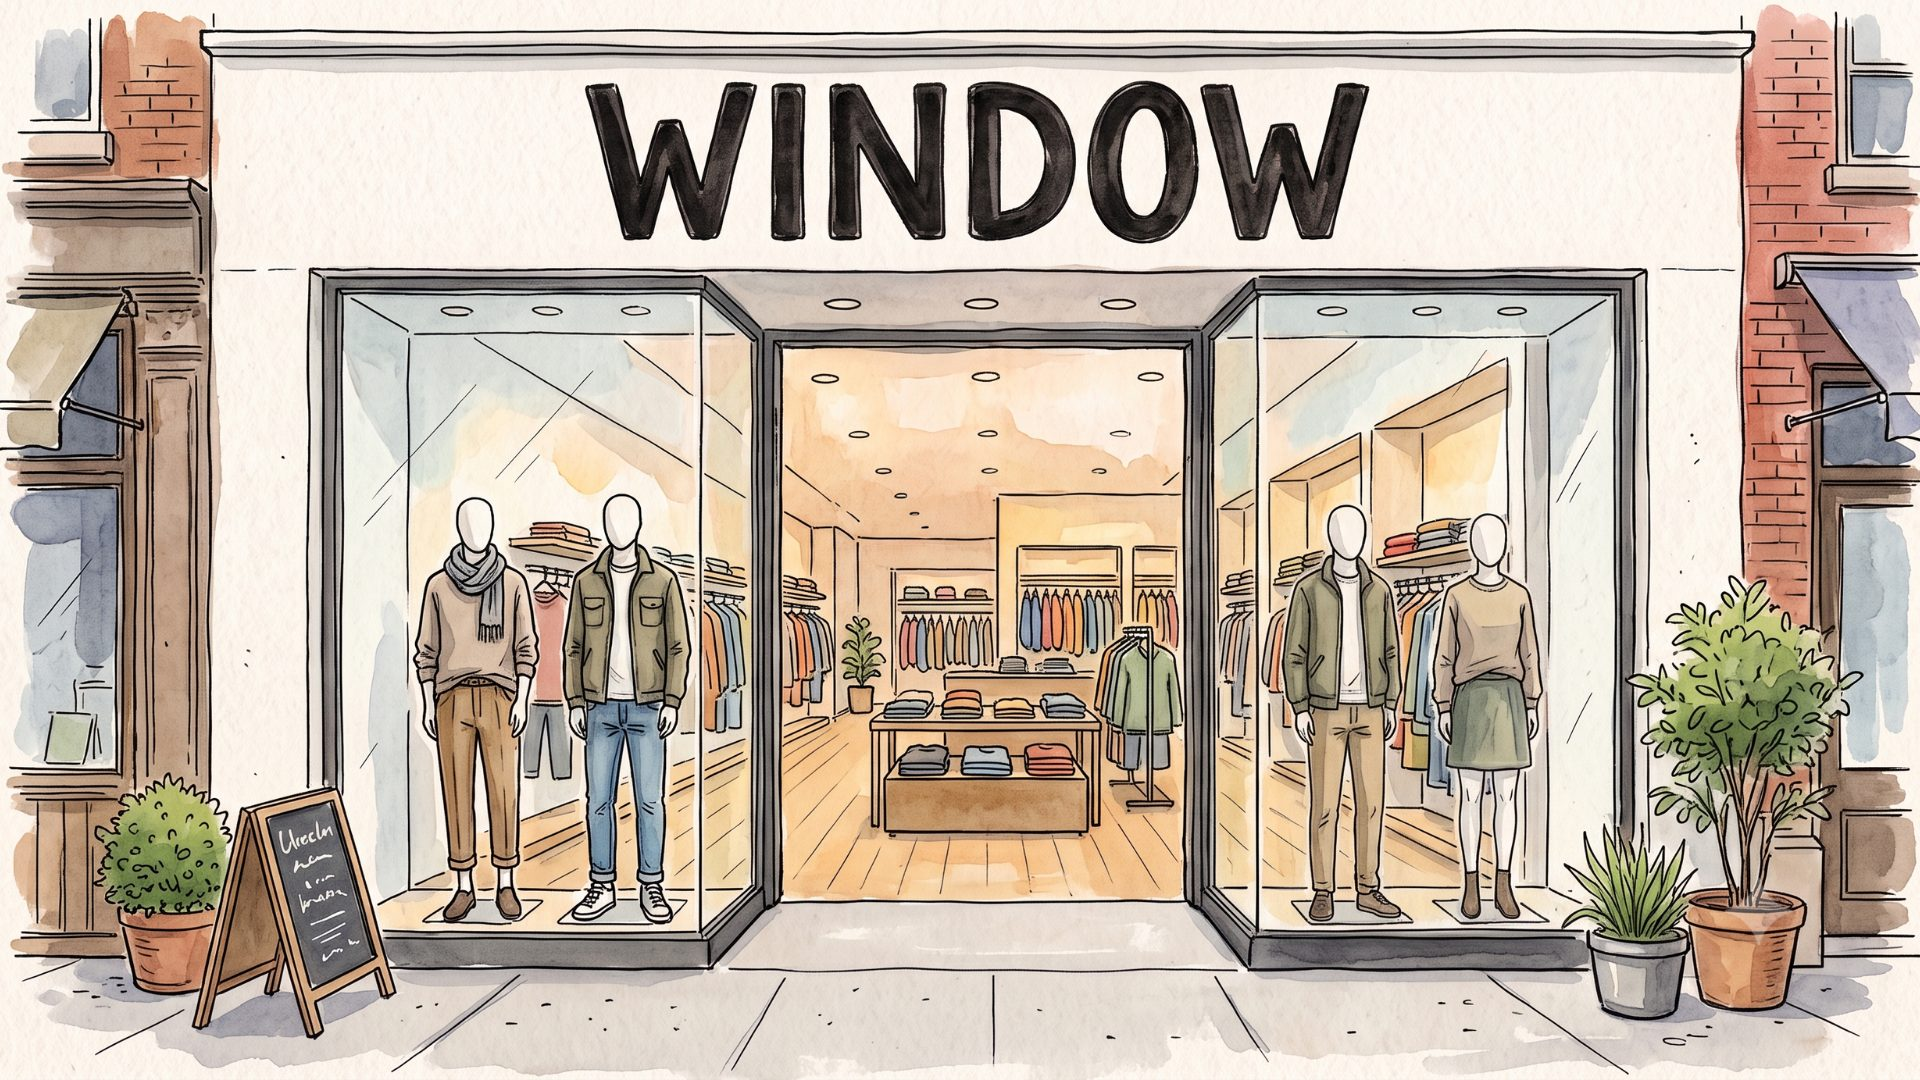
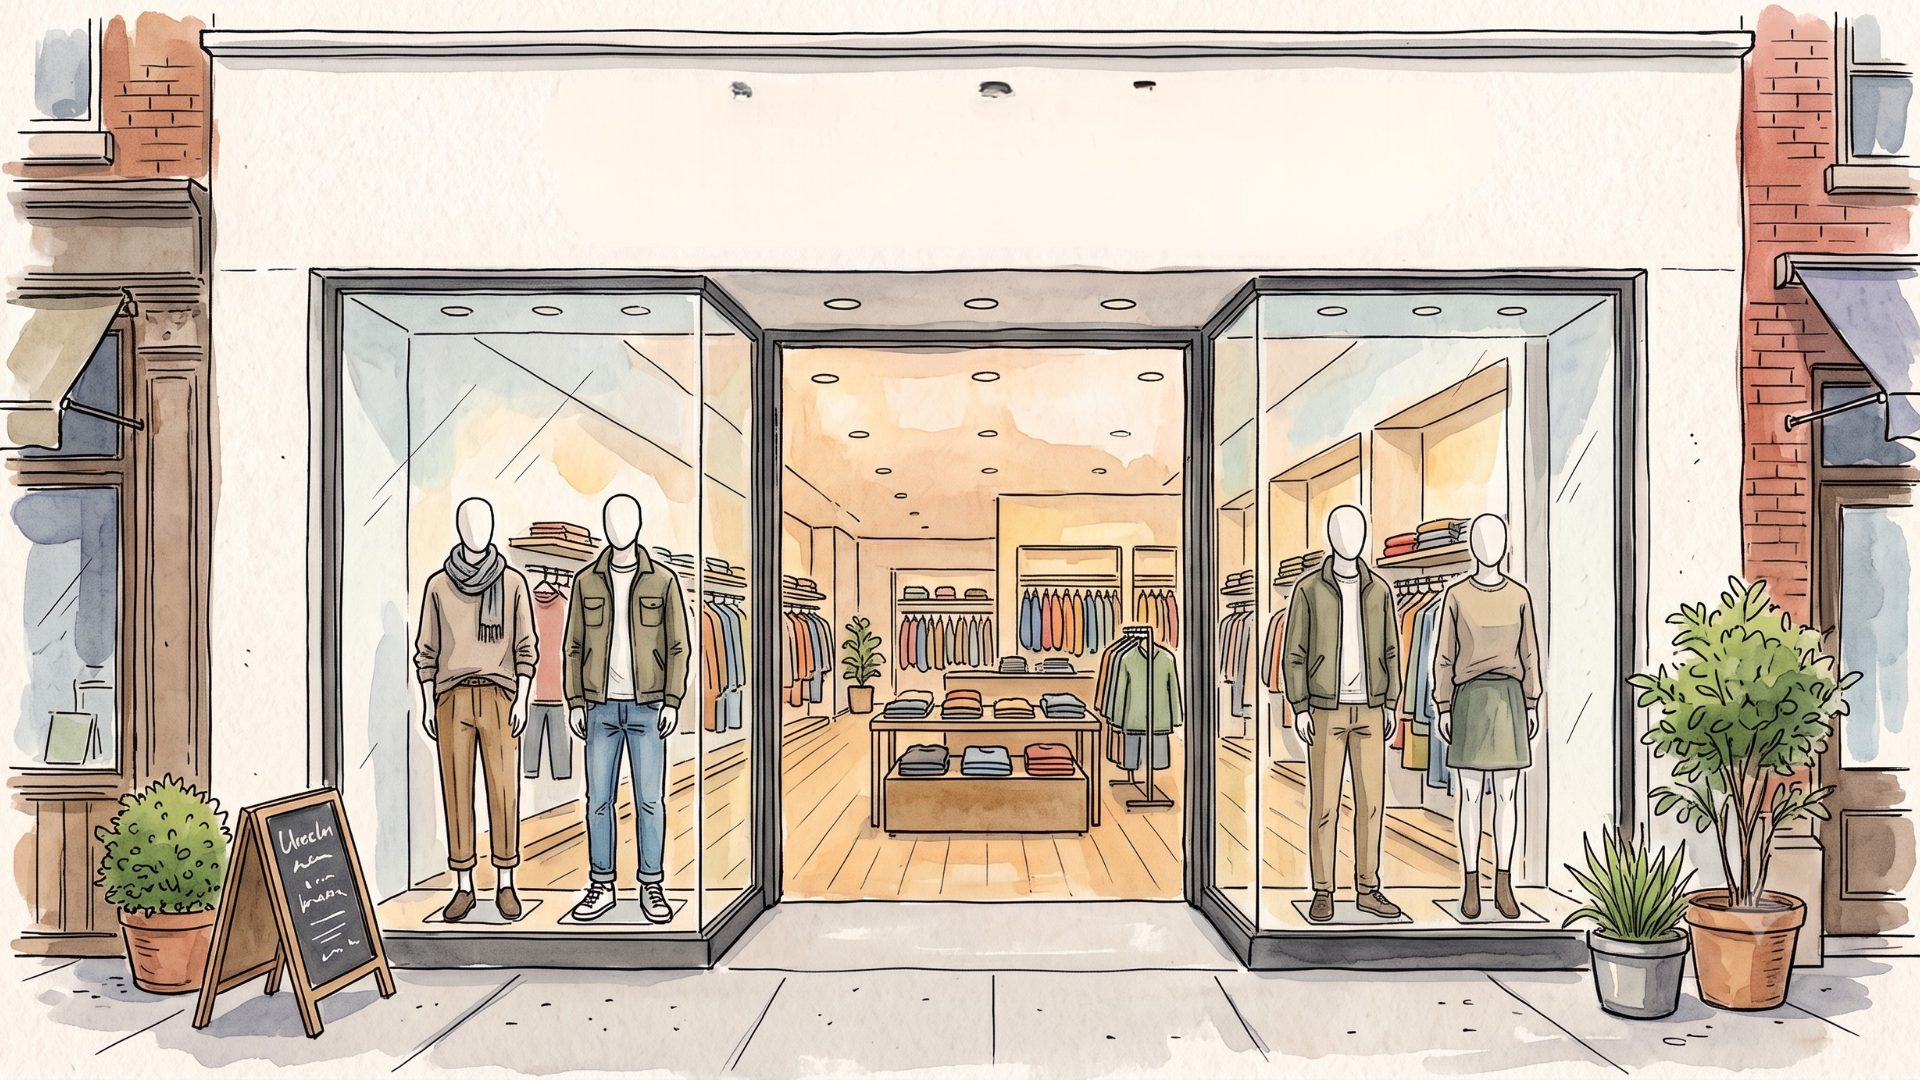
v0.4.2: signboard and camera framing knobs, tuned doors, location pre-ask, https LAN dev
- Storefront intro: WINDOW signboard that moves with the facade; knobs for
  door shift, gap, height, scale, slide and camera focus; doors open on
  every load; sits above the Leaflet map.
- Location: permission requested right after the doors open and on the
  location page in the app; coarse fallback; clear messages when the
  browser blocks GPS/camera on plain http.
- Tinder-style edge light while dragging, LIKE/NOPE stamps, round action
  buttons; version label in Profile; dev:lan serves https for phones.

Changed region(s): [[0.2812, 0.0611, 0.7188, 0.2444]]

diff --git a/code/src/index.css b/code/src/index.css
@@ -108,7 +108,7 @@ img, a { -webkit-user-drag: none; user-drag: none; }
 .skeleton { background: linear-gradient(90deg, #f0f0f0 25%, #fafafa 37%, #f0f0f0 63%); background-size: 800px 100%; animation: shimmer 1.4s infinite linear; }
 
 /* Leaflet */
-.leaflet-container { background: #f7f7f7; font-family: var(--font-sans); font-size: 11px; border-radius: 12px; }
+.leaflet-container { background: #f7f7f7; font-family: var(--font-sans); font-size: 11px; border-radius: 12px; isolation: isolate; z-index: 0; }
 .leaflet-control-zoom a { background: #fff !important; color: #4b4b4b !important; border-color: #afafaf !important; font-weight: 700; }
 .leaflet-control-attribution { background: rgba(255,255,255,0.8) !important; color: #777 !important; }
 .leaflet-control-attribution a { color: #1cb0f6 !important; }
@@ -156,16 +156,54 @@ img, a { -webkit-user-drag: none; user-drag: none; }
 .ambient { background-size: cover; background-position: center; filter: blur(44px) saturate(1.1); transform: scale(1.15); opacity: 0.18; animation: ambient-in 0.8s ease-out; }
 @keyframes ambient-in { from { opacity: 0; } }
 
-/* Storefront intro */
+/* Storefront intro ------------------------------------------------------------
+   TUNE THE DOORS HERE. Both door panels are the same image (assets/door.png);
+   the right one is a mirror of the left around the screen's centre line.
+   Values are percentages of the scene width/height unless noted. */
+:root {
+  --doors-shift: 5%;  /* move BOTH panels together sideways (+ = right) */
+  --door-x: 0%;       /* gap between the panels: + pushes them apart, - overlaps them */
+  --door-y: 9%;       /* move both panels down (+) or up (-) */
+  --door-scale: 1.12;    /* grow or shrink both panels around the scene centre (1 = as drawn in door.png) */
+  --door-ajar: 2.5;   /* how far (in %) they slide when hovering on the web */
+  --door-open: 11.5;  /* how far they slide when opened; should be about the panel width */
+  --intro-zoom: 3.4;  /* how far the camera pushes through the doorway at the end */
+  --intro-focus-x: 53%; /* which part of the picture sits at screen centre; bigger = scene moves LEFT */
+  --intro-focus-y: 50%;
+  --sign-y: 7%;        /* signboard distance from the top (% of screen height) */
+  --sign-size: 15vw;   /* signboard letter size */
+}
 .intro { perspective: 1200px; }
-.intro-scene { position: absolute; inset: 0; transition: transform 0.4s ease-out; transform-origin: 50% 50%; }
-.intro-layer { position: absolute; inset: 0; background-size: cover; background-position: 50% 50%; transition: transform 1.1s cubic-bezier(0.3, 0.8, 0.2, 1); will-change: transform; }
-.intro-bg { background-image: url('/intro/storefront.jpg'); transition-duration: 0.5s; }
-.intro-door { background-image: url('/intro/door.webp'); }
-.intro-glow { position: absolute; inset: 0; pointer-events: none; background: radial-gradient(ellipse 16% 30% at 50% 50%, rgba(255, 236, 170, 0.6), transparent 70%); transition: opacity 0.8s ease; }
-.intro.is-through .intro-scene { transition: transform 1.25s cubic-bezier(0.6, 0, 0.4, 1); transform: scale(3.4) !important; }
+.intro-scene {
+  position: absolute; inset: 0;
+  transition: transform 0.4s ease-out;
+  transform-origin: var(--intro-focus-x) var(--intro-focus-y);
+  transform: translate(calc(var(--px, 0) * -0.4%), calc(var(--py, 0) * -0.4%));
+}
+.intro-layer { position: absolute; inset: 0; background-size: cover; background-position: var(--intro-focus-x) var(--intro-focus-y); will-change: transform; }
+.intro-bg { background-image: url('/intro/storefront.jpg'); transition: transform 0.5s ease-out; transform: scale(1.06) translate(calc(var(--px, 0) * 1%), calc(var(--py, 0) * 1%)); }
+.intro-sign {
+  position: absolute; top: var(--sign-y); left: 50%;
+  transform: translate(calc(-50% + var(--px, 0) * 1%), calc(var(--py, 0) * 1%));
+  font-family: var(--font-display); font-weight: 900; font-size: var(--sign-size); line-height: 1;
+  letter-spacing: 0.06em; color: #1b1b1b; white-space: nowrap;
+  text-shadow: 0 2px 0 rgba(255,255,255,0.7), 0 0 14px rgba(255,255,255,0.8);
+  transition: transform 0.5s ease-out;
+  pointer-events: none;
+}
+.intro-door-wrap { position: absolute; inset: 0; transform: translateX(var(--doors-shift)); }
+.intro-door-wrap-right { transform: translateX(var(--doors-shift)) scaleX(-1); }
+.intro-door {
+  background-image: url('/intro/door.webp');
+  transition: transform 1.1s cubic-bezier(0.3, 0.8, 0.2, 1);
+  transform-origin: 50% 50%;
+  transform: translate(calc(var(--door-x) + var(--px, 0) * 0.5% - var(--slide, 0) * 1%), calc(var(--door-y) + var(--py, 0) * 0.5%)) scale(var(--door-scale));
+}
+.intro-door-wrap-right .intro-door { transform: translate(calc(var(--door-x) - var(--px, 0) * 0.5% - var(--slide, 0) * 1%), calc(var(--door-y) + var(--py, 0) * 0.5%)) scale(var(--door-scale)); }
+.intro-glow { position: absolute; inset: 0; pointer-events: none; background: radial-gradient(ellipse 16% 30% at var(--intro-focus-x) var(--intro-focus-y), rgba(255, 236, 170, 0.6), transparent 70%); transition: opacity 0.8s ease; }
+.intro.is-through .intro-scene { transition: transform 1.25s cubic-bezier(0.6, 0, 0.4, 1); transform: scale(var(--intro-zoom)) !important; }
 .intro.is-through { animation: intro-fade 1.25s ease-in forwards; }
-.intro.is-through .intro-layer, .intro.is-through .intro-glow { transition: opacity 1s ease; opacity: 0.0; }
+.intro.is-through .intro-layer, .intro.is-through .intro-glow { transition: opacity 1s ease; opacity: 0; }
 @keyframes intro-fade { 0% { opacity: 1; } 55% { opacity: 1; } 100% { opacity: 0; } }
 
 /* Tinder-style edge light while dragging */

diff --git a/code/src/features/intro/IntroGate.tsx b/code/src/features/intro/IntroGate.tsx
@@ -1,18 +1,17 @@
 import { useEffect, useRef, useState } from 'react'
 import { ICON_SM, Sparkles } from '@/components/icons'
 import { isApp } from '@/lib/platform'
+import { requestLocationPermission } from '@/lib/geo'
 
-const KEY = 'window.introDone'
-
+/** The doors open on every load: it is the signature moment. `?nointro=1` skips it for testing. */
 export function introPending(): boolean {
   try {
-    if (window.matchMedia('(prefers-reduced-motion: reduce)').matches) return false
     const q = new URLSearchParams(window.location.search)
-    if (q.has('intro')) return true // ?intro=1 forces it, handy while tuning the door art
+    if (q.has('intro')) return true
     if (q.has('nointro')) return false
-    return sessionStorage.getItem(KEY) !== '1'
+    return !window.matchMedia('(prefers-reduced-motion: reduce)').matches
   } catch {
-    return false
+    return true
   }
 }
 
@@ -29,16 +28,13 @@ export function IntroGate({ onDone }: { onDone: () => void }) {
   function finish() {
     if (done.current) return
     done.current = true
-    try {
-      sessionStorage.setItem(KEY, '1')
-    } catch {
-      /* ignore */
-    }
     onDone()
   }
 
   function open() {
     if (phase === 'open' || phase === 'through') return
+    // The tap that opens the doors is the moment to ask for location, before the map needs it.
+    void requestLocationPermission().catch(() => undefined)
     setPhase('open')
     setTimeout(() => setPhase('through'), 850)
     setTimeout(finish, 2000)
@@ -56,13 +52,17 @@ export function IntroGate({ onDone }: { onDone: () => void }) {
   }
 
   const app = isApp()
-  const slide = phase === 'closed' ? 0 : phase === 'ajar' ? 2.5 : 11.5
+  // Slide amounts come from the CSS knobs (--door-ajar / --door-open) so everything is tuned in one place.
+  const css = getComputedStyle(document.documentElement)
+  const ajar = parseFloat(css.getPropertyValue('--door-ajar')) || 2.5
+  const openBy = parseFloat(css.getPropertyValue('--door-open')) || 11.5
+  const slide = phase === 'closed' ? 0 : phase === 'ajar' ? ajar : openBy
   const bgX = tilt.x * 1.2
   const bgY = tilt.y * 0.8
 
   return (
     <div
-      className={`intro fixed inset-0 z-[100] cursor-pointer select-none overflow-hidden bg-white ${phase === 'through' ? 'is-through' : ''}`}
+      className={`intro fixed inset-0 z-[5000] cursor-pointer select-none overflow-hidden bg-white ${phase === 'through' ? 'is-through' : ''}`}
       onPointerMove={app ? undefined : onMove}
       onPointerEnter={() => !app && phase === 'closed' && setPhase('ajar')}
       onPointerLeave={() => !app && phase === 'ajar' && setPhase('closed')}
@@ -70,10 +70,11 @@ export function IntroGate({ onDone }: { onDone: () => void }) {
       role="button"
       aria-label="Open the shop"
     >
-      <div className="intro-scene" style={{ transform: `translate(${-bgX * 0.4}%, ${-bgY * 0.4}%)` }}>
-        <div className="intro-layer intro-bg" style={{ transform: `scale(1.06) translate(${bgX}%, ${bgY}%)` }} />
-        <div className="intro-layer intro-door" style={{ transform: `translate(${bgX * 0.5 - slide}%, ${bgY * 0.5}%)` }} />
-        <div className="intro-layer intro-door" style={{ transform: `scaleX(-1) translate(${-bgX * 0.5 - slide}%, ${bgY * 0.5}%)` }} />
+      <div className="intro-scene" style={{ '--px': bgX, '--py': bgY, '--slide': slide } as React.CSSProperties}>
+        <div className="intro-layer intro-bg" />
+        <div className="intro-sign" aria-hidden="true">WINDOW</div>
+        <div className="intro-door-wrap"><div className="intro-layer intro-door" /></div>
+        <div className="intro-door-wrap intro-door-wrap-right"><div className="intro-layer intro-door" /></div>
         <div className="intro-glow" style={{ opacity: phase === 'closed' ? 0 : phase === 'ajar' ? 0.35 : 1 }} />
       </div>
       <div className="pointer-events-none absolute inset-x-0 bottom-0 flex items-end justify-end px-5 pb-[calc(var(--safe-bottom)+20px)]">

diff --git a/code/src/lib/geo.ts b/code/src/lib/geo.ts
@@ -11,6 +11,29 @@ export interface LatLng {
 export const DEFAULT_CENTER: LatLng = { lat: 30.3398, lng: 76.3869 }
 
 const LOCATION_OFF = 'Location is switched off on this phone. Turn it on in quick settings and try again, or search for your area instead.'
+const INSECURE = 'This page is opened over plain http, so the browser blocks GPS and the camera. Use the Window app or an https address, or search for your area instead.'
+
+/**
+ * Asks for location permission up front (after a tap, so the OS dialog is expected),
+ * without waiting for a fix. Safe to call repeatedly.
+ */
+export async function requestLocationPermission(): Promise<'granted' | 'denied' | 'prompt' | 'unavailable'> {
+  if (Capacitor.isNativePlatform()) {
+    try {
+      const { Geolocation } = await import('@capacitor/geolocation')
+      const cur = await Geolocation.checkPermissions()
+      if (cur.location === 'granted' || cur.coarseLocation === 'granted') return 'granted'
+      const perm = await Geolocation.requestPermissions({ permissions: ['location', 'coarseLocation'] })
+      return perm.location === 'granted' || perm.coarseLocation === 'granted' ? 'granted' : perm.location === 'denied' ? 'denied' : 'prompt'
+    } catch {
+      return 'unavailable'
+    }
+  }
+  if (typeof navigator === 'undefined' || !navigator.geolocation || !window.isSecureContext) return 'unavailable'
+  return new Promise((resolve) => {
+    navigator.geolocation.getCurrentPosition(() => resolve('granted'), (e) => resolve(e.code === e.PERMISSION_DENIED ? 'denied' : 'prompt'), { timeout: 8000, maximumAge: 600000 })
+  })
+}
 
 export async function getCurrentPosition(): Promise<LatLng> {
   if (Capacitor.isNativePlatform()) {
@@ -33,9 +56,10 @@ export async function getCurrentPosition(): Promise<LatLng> {
   }
   return new Promise((resolve, reject) => {
     if (!navigator.geolocation) return reject(new Error('Geolocation is not available in this browser'))
+    if (!window.isSecureContext) return reject(new Error(INSECURE))
     navigator.geolocation.getCurrentPosition(
       (pos) => resolve({ lat: pos.coords.latitude, lng: pos.coords.longitude }),
-      (err) => reject(new Error(err.code === err.PERMISSION_DENIED ? 'Location permission denied' : 'Could not get your location')),
+      (err) => reject(new Error(err.code === err.PERMISSION_DENIED ? 'Location permission was denied. Allow it for this site in the browser settings, or search for your area.' : 'Could not get your location')),
       { enableHighAccuracy: true, timeout: 15000, maximumAge: 60000 },
     )
   })

diff --git a/code/src/features/entry/ShopperSetupPage.tsx b/code/src/features/entry/ShopperSetupPage.tsx
@@ -1,10 +1,12 @@
-import { useState } from 'react'
+import { useEffect, useState } from 'react'
 import { Link, useNavigate } from 'react-router'
 import { Button, ErrorBanner, cx } from '@/components/ui'
 import { LocationPicker } from '@/components/LocationPicker'
 import { useAuth } from '@/features/auth/AuthProvider'
 import { updateProfile } from '@/lib/db'
 import { getShopperPrefs, setShopperPrefs } from '@/lib/prefs'
+import { requestLocationPermission } from '@/lib/geo'
+import { isApp } from '@/lib/platform'
 import { MAX_STORE_TAGS, STORE_TAGS, type StoreLocation } from '@/lib/types'
 
 /** Where are you, and what are you into? Guests keep it on the device; accounts also save it. */
@@ -17,6 +19,10 @@ export function ShopperSetupPage() {
   const [interests, setInterests] = useState<string[]>(profile?.interests ?? initial.interests)
   const [error, setError] = useState<string | null>(null)
   const [busy, setBusy] = useState(false)
+
+  useEffect(() => {
+    if (isApp()) void requestLocationPermission().catch(() => undefined)
+  }, [])
 
   function toggle(tag: string) {
     setInterests((cur) => (cur.includes(tag) ? cur.filter((t) => t !== tag) : cur.length < MAX_STORE_TAGS ? [...cur, tag] : cur))

diff --git a/code/vite.config.ts b/code/vite.config.ts
@@ -2,6 +2,7 @@
 import { fileURLToPath, URL } from 'node:url'
 import react from '@vitejs/plugin-react'
 import tailwindcss from '@tailwindcss/vite'
+import basicSsl from '@vitejs/plugin-basic-ssl'
 import { defineConfig } from 'vite'
 
 import { readFileSync } from 'node:fs'
@@ -9,7 +10,8 @@ const pkg = JSON.parse(readFileSync(new URL('./package.json', import.meta.url), 
 
 export default defineConfig({
   define: { __APP_VERSION__: JSON.stringify(pkg.version) },
-  plugins: [react(), tailwindcss()],
+  // VITE_HTTPS=1 serves the dev server over a self-signed certificate so phones on the LAN get GPS and camera.
+  plugins: [react(), tailwindcss(), ...(process.env.VITE_HTTPS ? [basicSsl()] : [])],
   resolve: {
     alias: { '@': fileURLToPath(new URL('./src', import.meta.url)) },
   },

diff --git a/code/src/components/CameraCapture.tsx b/code/src/components/CameraCapture.tsx
@@ -25,6 +25,10 @@ export function CameraCapture({ onCapture, onCancel }: Props) {
     if (native) return
     let cancelled = false
     setReady(false)
+    if (!window.isSecureContext) {
+      setError('This page is opened over plain http, so the browser blocks the camera. Use the Window app or an https address; you can still choose a photo from the gallery.')
+      return
+    }
     navigator.mediaDevices
       ?.getUserMedia({ video: { facingMode: facing, width: { ideal: 1280 }, height: { ideal: 1600 } }, audio: false })
       .then((s) => {
